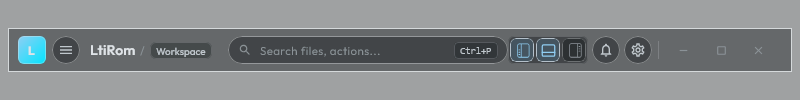
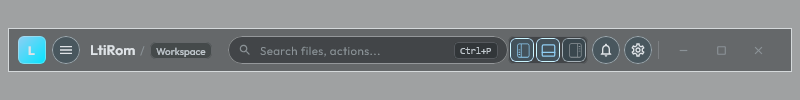
Delete duplicate button implementations, consolidate onto GlassButton
The user asked why GlassTopBarIconButton and GlassButton were two
separate things instead of one, and pointed out this session had been
patching multiple bespoke button implementations individually (hover here,
border there) instead of fixing the one shared component they should all
be built on. Correct call - deleted three duplicate implementations
entirely rather than continuing to patch them in parallel:

- GlassTopBarIconButton (GlassTopBar.kt): a full bespoke Box + drawBackdrop
  + border + hover reimplementation that existed only because, several
  commits ago, GlassButton had no hover feedback yet and delegating would
  have regressed it. GlassButton has real hover feedback now, so that
  reason no longer applies. Replaced its 3 call sites (menu, notifications,
  settings) with GlassIconButton and deleted the ~65-line duplicate.
- SegmentedToggleButton (GlassTopBar.kt): same story, plus its own trio of
  color-resolver helpers and the segmentedToggleSurface modifier it was
  the last real caller of. Replaced its 3 call sites (left/bottom/right
  panel toggles) with GlassIconToggleButton, deleted all of it. This does
  simplify the icon-tint state machine from 3-way (muted/hover-lit/
  accent) to 2-way (muted/accent, selected-driven) - a deliberate
  trade-off since GlassButton's shared content-color slot isn't
  hover-aware per-icon; the surface and border still react to hover via
  GlassButton's own handling either way.
[…]

Changed region(s): [[0.625, 0.36, 0.8125, 0.63], [0.0625, 0.45, 0.0938, 0.54], [0.0625, 0.36, 0.0938, 0.39]]

diff --git a/core/designsystem/src/commonMain/kotlin/org/ide/lti/core/designsystem/component/GlassTopBar.kt b/core/designsystem/src/commonMain/kotlin/org/ide/lti/core/designsystem/component/GlassTopBar.kt
@@ -227,12 +227,17 @@ private fun GlassTopBarLeftSection(
             )
         }
 
-        GlassTopBarIconButton(
-            icon = AppIcons.Menu,
-            contentDescription = "Main Menu",
+        GlassIconButton(
             onClick = onMenuClick,
+            size = ComponentSize.TopBarButtonSize,
             backdrop = backdrop,
-        )
+        ) {
+            Icon(
+                imageVector = AppIcons.Menu,
+                contentDescription = "Main Menu",
+                modifier = Modifier.size(IconSize.Medium),
+            )
+        }
 
         Row(
             verticalAlignment = Alignment.CenterVertically,
@@ -302,22 +307,31 @@ private fun GlassTopBarRightSection(
             onClickLeftPanelIcon = onClickLeftPanelIcon,
             onClickMiddleDownPanelIcon = onClickMiddleDownPanelIcon,
             onClickRightPanelIcon = onClickRightPanelIcon,
-            backdrop = backdrop,
         )
 
-        GlassTopBarIconButton(
-            icon = AppIcons.OutlinedNotifications,
-            contentDescription = "Notifications",
+        GlassIconButton(
             onClick = onNotificationsClick,
+            size = ComponentSize.TopBarButtonSize,
             backdrop = backdrop,
-        )
+        ) {
+            Icon(
+                imageVector = AppIcons.OutlinedNotifications,
+                contentDescription = "Notifications",
+                modifier = Modifier.size(IconSize.Medium),
+            )
+        }
 
-        GlassTopBarIconButton(
-            icon = AppIcons.SettingsOutlined,
-            contentDescription = "Settings",
+        GlassIconButton(
             onClick = onSettingsClick,
+            size = ComponentSize.TopBarButtonSize,
             backdrop = backdrop,
-        )
+        ) {
+            Icon(
+                imageVector = AppIcons.SettingsOutlined,
+                contentDescription = "Settings",
+                modifier = Modifier.size(IconSize.Medium),
+            )
+        }
 
         Box(
             modifier = Modifier
@@ -445,7 +459,6 @@ private fun SegmentedPanelLayoutToggle(
     onClickMiddleDownPanelIcon: () -> Unit,
     onClickRightPanelIcon: () -> Unit,
     modifier: Modifier = Modifier,
-    backdrop: Backdrop? = null,
 ) {
     val glassColors = GlassTheme.colors
 
@@ -460,212 +473,49 @@ private fun SegmentedPanelLayoutToggle(
         verticalAlignment = Alignment.CenterVertically,
     ) {
         // Left Panel Toggle (File Explorer)
-        SegmentedToggleButton(
-            icon = AppIcons.leftPanelPainterResource(),
-            contentDescription = "Toggle Left Panel (Files)",
-            isActive = isLeftPanelVisible,
-            onClick = onClickLeftPanelIcon,
-            backdrop = backdrop,
-        )
+        GlassIconToggleButton(
+            selected = isLeftPanelVisible,
+            onSelectedChange = { onClickLeftPanelIcon() },
+            size = ComponentSize.SegmentedButtonSize,
+            shape = RoundedCornerShape(CornerRadius.Compact),
+        ) {
+            Icon(
+                painter = AppIcons.leftPanelPainterResource(),
+                contentDescription = "Toggle Left Panel (Files)",
+                modifier = Modifier.size(IconSize.Segmented),
+                tint = if (isLeftPanelVisible) glassColors.glassAccent else glassColors.onGlassMuted,
+            )
+        }
 
         // Middle Down Panel Toggle (Terminal/Output)
-        SegmentedToggleButton(
-            icon = AppIcons.bottomPanelPainterResource(),
-            contentDescription = "Toggle Bottom Panel (Terminal)",
-            isActive = isMiddleDownPanelVisible,
-            onClick = onClickMiddleDownPanelIcon,
-            backdrop = backdrop,
-        )
+        GlassIconToggleButton(
+            selected = isMiddleDownPanelVisible,
+            onSelectedChange = { onClickMiddleDownPanelIcon() },
+            size = ComponentSize.SegmentedButtonSize,
+            shape = RoundedCornerShape(CornerRadius.Compact),
+        ) {
+            Icon(
+                painter = AppIcons.bottomPanelPainterResource(),
+                contentDescription = "Toggle Bottom Panel (Terminal)",
+                modifier = Modifier.size(IconSize.Segmented),
+                tint = if (isMiddleDownPanelVisible) glassColors.glassAccent else glassColors.onGlassMuted,
+            )
+        }
 
         // Right Panel Toggle (AI Assistant)
-        SegmentedToggleButton(
-            icon = AppIcons.rightPanelPainterResource(),
-            contentDescription = "Toggle Right Panel (AI Assistant)",
-            isActive = isRightPanelVisible,
-            onClick = onClickRightPanelIcon,
-            backdrop = backdrop,
-        )
-    }
-}
-
-/**
- * Individual toggle button inside the segmented panel layout control with real glass effect.
- */
-@OptIn(ExperimentalComposeUiApi::class)
-@Composable
-private fun SegmentedToggleButton(
-    icon: Painter,
-    contentDescription: String,
-    isActive: Boolean,
-    onClick: () -> Unit,
-    modifier: Modifier = Modifier,
-    backdrop: Backdrop? = null,
-) {
-    var isHovered by remember { mutableStateOf(false) }
-    val glassColors = GlassTheme.colors
-    val effectsEnabled = GlassTheme.effectsEnabled
-    val actualBackdrop = backdrop ?: GlassTheme.backdrop
-    val buttonShape = RoundedCornerShape(CornerRadius.Compact)
-
-    val (surfaceColor, tintColor) = resolveSegmentedToggleColors(isActive, isHovered, glassColors)
-    val iconTint = resolveSegmentedToggleIconTint(isActive, isHovered, glassColors)
-    val borderColor = resolveSegmentedToggleBorderColor(isActive, isHovered, glassColors)
-
-    Box(
-        modifier = modifier
-            .size(ComponentSize.SegmentedButtonSize)
-            .clip(buttonShape)
-            .segmentedToggleSurface(
-                isHovered = isHovered,
-                effectsEnabled = effectsEnabled,
-                backdrop = actualBackdrop,
-                shape = buttonShape,
-                surfaceColor = surfaceColor,
-                tintColor = tintColor,
+        GlassIconToggleButton(
+            selected = isRightPanelVisible,
+            onSelectedChange = { onClickRightPanelIcon() },
+            size = ComponentSize.SegmentedButtonSize,
+            shape = RoundedCornerShape(CornerRadius.Compact),
+        ) {
+            Icon(
+                painter = AppIcons.rightPanelPainterResource(),
+                contentDescription = "Toggle Right Panel (AI Assistant)",
+                modifier = Modifier.size(IconSize.Segmented),
+                tint = if (isRightPanelVisible) glassColors.glassAccent else glassColors.onGlassMuted,
             )
-            .then(
-                if (borderColor != Color.Transparent) {
-                    Modifier.border(width = StrokeWidth.Hairline, color = borderColor, shape = buttonShape)
-                } else {
-                    Modifier
-                }
-            )
-            .onPointerEvent(PointerEventType.Enter) { isHovered = true }
-            .onPointerEvent(PointerEventType.Exit) { isHovered = false }
-            .clickable(
-                interactionSource = remember { MutableInteractionSource() },
-                indication = null,
-                role = Role.Button,
-                onClick = onClick,
-            ),
-        contentAlignment = Alignment.Center,
-    ) {
-        Icon(
-            painter = icon,
-            contentDescription = contentDescription,
-            modifier = Modifier.size(IconSize.Segmented),
-            tint = iconTint,
-        )
-    }
-}
-
-private fun resolveSegmentedToggleColors(
-    isActive: Boolean,
-    isHovered: Boolean,
-    glassColors: org.ide.lti.core.designsystem.theme.GlassColorScheme,
-): Pair<Color, Color> {
-    val surfaceColor = if (isActive || isHovered) glassColors.glassSurfaceElevated else glassColors.glassSurface
-    val tintColor = if (isActive) glassColors.glassAccent.copy(alpha = AlphaTokens.Hover) else Color.Transparent
-    return surfaceColor to tintColor
-}
-
-private fun resolveSegmentedToggleBorderColor(
-    isActive: Boolean,
-    isHovered: Boolean,
-    glassColors: org.ide.lti.core.designsystem.theme.GlassColorScheme,
-): Color = when {
-    isActive && isHovered -> glassColors.glassBorderHighlight
-    isActive -> glassColors.glassBorder
-    isHovered -> glassColors.glassBorder.copy(alpha = AlphaTokens.Border)
-    else -> Color.Transparent
-}
-
-private fun resolveSegmentedToggleIconTint(
-    isActive: Boolean,
-    isHovered: Boolean,
-    glassColors: org.ide.lti.core.designsystem.theme.GlassColorScheme,
-): Color = when {
-    isActive -> glassColors.glassAccent
-    isHovered -> glassColors.onGlass
-    else -> glassColors.onGlassMuted
-}
-
-private fun Modifier.segmentedToggleSurface(
-    isHovered: Boolean,
-    effectsEnabled: Boolean,
-    backdrop: Backdrop?,
-    shape: Shape,
-    surfaceColor: Color,
-    tintColor: Color,
-): Modifier {
-    return if (effectsEnabled && backdrop != null) {
-        this.drawBackdrop(
-            backdrop = backdrop,
-            shape = { shape },
-            effects = {
-                vibrancy()
-                blur(BackdropBlur.Subtle.toPx())
-                lens(LensRefraction.Button.height.toPx(), LensRefraction.Button.amount.toPx())
-            },
-            highlight = { if (isHovered) Highlight.Ambient else Highlight.Plain },
-            onDrawSurface = {
-                if (surfaceColor != Color.Transparent) {
-                    drawRect(surfaceColor)
-                }
-                if (tintColor != Color.Transparent) {
-                    drawRect(tintColor)
-                }
-            }
-        )
-    } else {
-        this.background(surfaceColor).then(
-            if (tintColor != Color.Transparent) Modifier.background(tintColor) else Modifier
-        )
-    }
-}
-
-/**
- * Clean Liquid Glass Top Bar Icon Button with real backdrop effects on hover.
- */
-@OptIn(ExperimentalComposeUiApi::class)
-@Composable
-private fun GlassTopBarIconButton(
-    icon: ImageVector,
-    contentDescription: String,
-    onClick: () -> Unit,
-    modifier: Modifier = Modifier,
-    backdrop: Backdrop? = null,
-) {
-    var isHovered by remember { mutableStateOf(false) }
-    val glassColors = GlassTheme.colors
-    val effectsEnabled = GlassTheme.effectsEnabled
-    val actualBackdrop = backdrop ?: GlassTheme.backdrop
-    val buttonShape = CircleShape
-
-    val borderColor by animateColorAsState(
-        targetValue = if (isHovered) glassColors.glassBorderHighlight else glassColors.glassBorder,
-        animationSpec = tween(MotionDuration.Fast)
-    )
-
-    Box(
-        modifier = modifier
-            .size(ComponentSize.TopBarButtonSize)
-            .clip(buttonShape)
-            .segmentedToggleSurface(
-                isHovered = isHovered,
-                effectsEnabled = effectsEnabled,
-                backdrop = actualBackdrop,
-                shape = buttonShape,
-                surfaceColor = if (isHovered) glassColors.glassSurfaceElevated else glassColors.glassSurface,
-                tintColor = Color.Transparent,
-            )
-            .border(width = StrokeWidth.Hairline, color = borderColor, shape = buttonShape)
-            .onPointerEvent(PointerEventType.Enter) { isHovered = true }
-            .onPointerEvent(PointerEventType.Exit) { isHovered = false }
-            .clickable(
-                interactionSource = remember { MutableInteractionSource() },
-                indication = null,
-                role = Role.Button,
-                onClick = onClick,
-            ),
-        contentAlignment = Alignment.Center,
-    ) {
-        Icon(
-            imageVector = icon,
-            contentDescription = contentDescription,
-            modifier = Modifier.size(IconSize.Medium),
-            tint = if (isHovered) glassColors.onGlass else glassColors.onGlassSecondary,
-        )
+        }
     }
 }
 

diff --git a/core/designsystem/src/commonMain/kotlin/org/ide/lti/core/designsystem/component/GlassTabBar.kt b/core/designsystem/src/commonMain/kotlin/org/ide/lti/core/designsystem/component/GlassTabBar.kt
@@ -191,55 +191,18 @@ fun GlassTabItem(
         )
 
         if (onClose != null) {
-            GlassTabCloseButton(
-                selected = selected,
-                onClose = onClose,
-            )
-        }
-    }
-}
-
-@OptIn(ExperimentalComposeUiApi::class)
-@Composable
-private fun GlassTabCloseButton(
-    selected: Boolean,
-    onClose: () -> Unit,
-) {
-    var isCloseHovered by remember { mutableStateOf(false) }
-    val glassColors = GlassTheme.colors
-    val closeIconTint = when {
-        isCloseHovered -> glassColors.onGlass
-        selected -> glassColors.onGlassSecondary
-        else -> glassColors.onGlassMuted
-    }
-
-    Box(
-        modifier = Modifier
-            .size(IconSize.Medium)
-            .clip(RoundedCornerShape(CornerRadius.ExtraSmall))
-            .then(
-                if (isCloseHovered) {
-                    Modifier.background(glassColors.glassSurfaceElevated)
-                } else {
-                    Modifier
-                }
-            )
-            .onPointerEvent(PointerEventType.Enter) { isCloseHovered = true }
-            .onPointerEvent(PointerEventType.Exit) { isCloseHovered = false }
-            .clickable(
-                interactionSource = remember { MutableInteractionSource() },
-                indication = null,
-                role = Role.Button,
+            GlassIconButton(
                 onClick = onClose,
-            ),
-        contentAlignment = Alignment.Center,
-    ) {
-        Icon(
-            imageVector = Icons.Default.Close,
-            contentDescription = "Close tab",
-            modifier = Modifier.size(IconSize.Small),
-            tint = closeIconTint,
-        )
+                size = IconSize.Medium,
+                shape = RoundedCornerShape(CornerRadius.ExtraSmall),
+            ) {
+                Icon(
+                    imageVector = Icons.Default.Close,
+                    contentDescription = "Close tab",
+                    modifier = Modifier.size(IconSize.Small),
+                )
+            }
+        }
     }
 }
 
